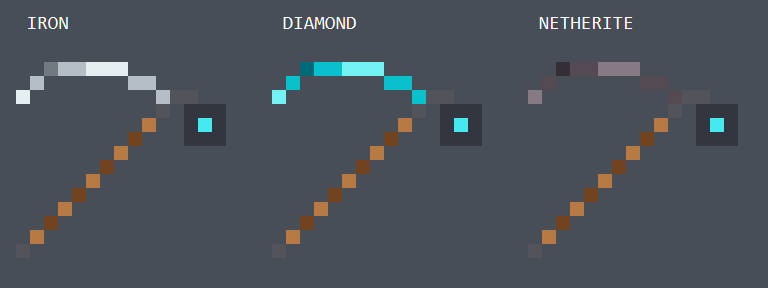
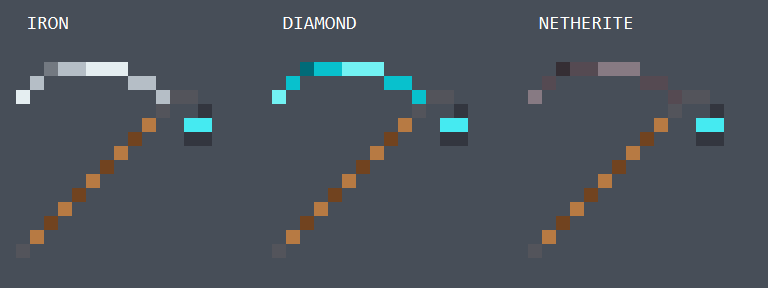
art: narrow inventory soul lanterns and trim their top corners

Changed region(s): [[0.2188, 0.3438, 0.3125, 0.5], [0.9062, 0.3438, 0.9688, 0.5312], [0.5625, 0.3438, 0.625, 0.5312]]

diff --git a/CHANGELOG.md b/CHANGELOG.md
@@ -2,6 +2,7 @@
 
 ## Unreleased
 
+- Narrow the inventory lanterns to two pixels, with two cyan flame pixels and trimmed upper corners; keep held models unchanged.
 - Redraw the 16x16 inventory scythes in a clockwise-rotated layout matching their crafting recipe: shaft from bottom-left to upper-right, thin colored blade across the top and lantern at the right. Remove the black blade band from icons only; retain held artwork, mesh, grip and view transforms.
 - Move the held scythe's third-person grip to the middle of its shaft while preserving the user-approved rotations, scales and first-person framing. Replace automatically extruded held-item geometry with closed opaque rectangles and texel-center edge UVs to address see-through seams; preserve the artwork and 16x16 inventory icons. In-game confirmation remains deferred to the user.
 - Replace scythe art with wooden shafts, left-facing crescent blades and soul lanterns. Keep cutting edges black while changing only blade-face colors between iron, diamond and netherite.

diff --git a/art/scythes/README.md b/art/scythes/README.md
@@ -7,7 +7,8 @@ blade and hanging soul lantern. On held models, the cutting edge stays black;
 the broad blade face changes to silver iron, cyan diamond or muted netherite.
 Inventory icons use a thinner, single-pixel colored blade without the black band.
 Their clockwise-rotated layout follows the crafting recipe: shaft from bottom-left
-to upper-right, blade across the top and lantern at the right. Shafts, fittings
+to upper-right, blade across the top and a two-pixel-wide lantern at the right,
+with a narrow top cap instead of square upper corners. Shafts, fittings
 and lantern colors share the same palette in inventory icons.
 
 ![Magnified 16x16 inventory icons](inventory-preview.png)
